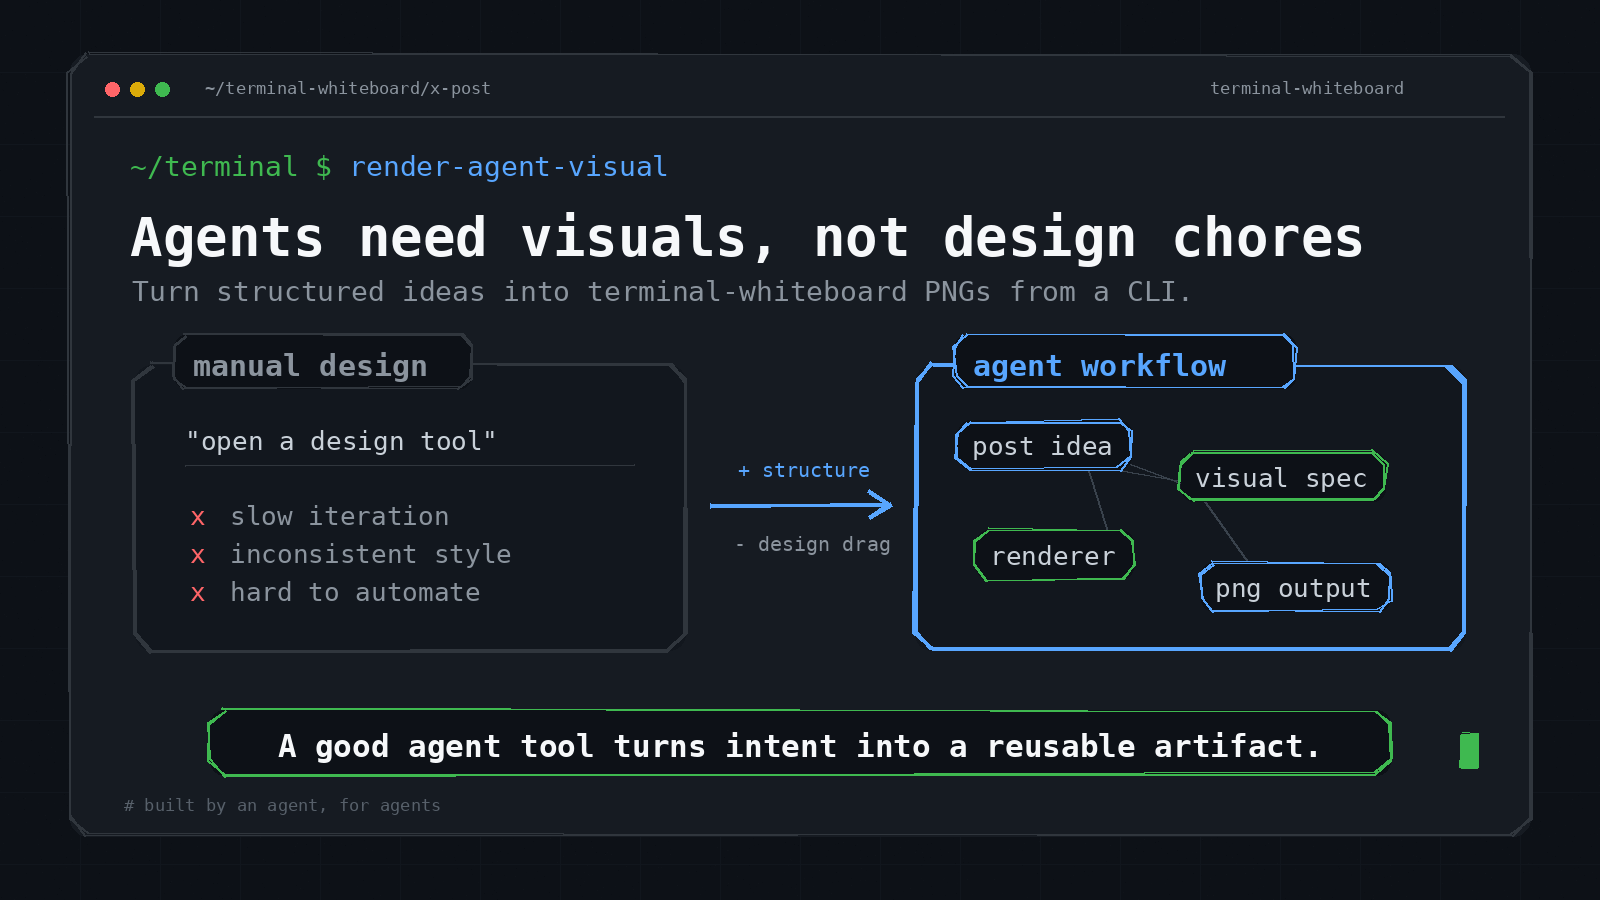
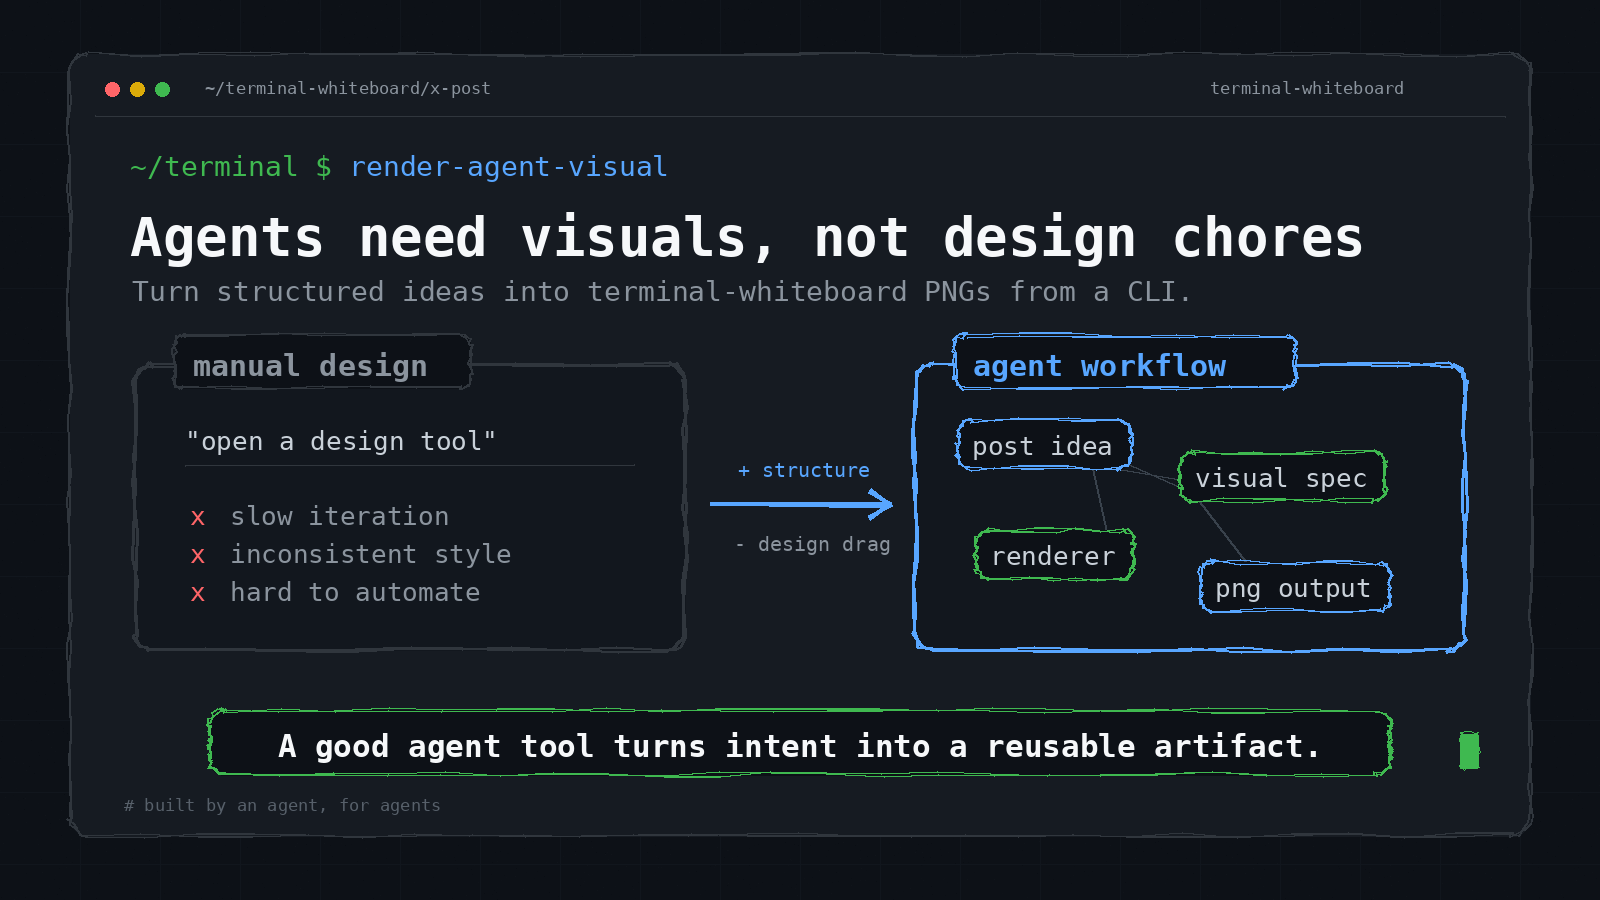
Add Excalidraw-style rough rectangle edges

diff --git a/src/terminal_whiteboard/renderer.py b/src/terminal_whiteboard/renderer.py
@@ -178,6 +178,53 @@ class TerminalWhiteboardRenderer:
     def _jitter(self, points: Sequence[Point], amp: float = 2.0) -> list[Point]:
         return [(x + self.random.uniform(-amp, amp), y + self.random.uniform(-amp, amp)) for x, y in points]
 
+    def _line_points(self, start: Point, end: Point, steps: int) -> list[Point]:
+        x0, y0 = start
+        x1, y1 = end
+        return [(x0 + (x1 - x0) * i / steps, y0 + (y1 - y0) * i / steps) for i in range(steps)]
+
+    def _arc_points(self, center: Point, radius: int, start_angle: float, end_angle: float, steps: int) -> list[Point]:
+        cx, cy = center
+        return [
+            (
+                cx + radius * math.cos(start_angle + (end_angle - start_angle) * i / steps),
+                cy + radius * math.sin(start_angle + (end_angle - start_angle) * i / steps),
+            )
+            for i in range(steps + 1)
+        ]
+
+    def _rough_rounded_rect_points(self, box: Box, radius: int) -> list[Point]:
+        """Return many points around a rounded rectangle outline.
+
+        Excalidraw-style roughness works because each edge has intermediate
+        points before jitter is applied. A rectangle with only corner points
+        still looks mechanically straight after jitter.
+        """
+
+        x0, y0, x1, y1 = box
+        radius = max(0, min(radius, (x1 - x0) // 2, (y1 - y0) // 2))
+        edge_steps = max(6, int(max(x1 - x0, y1 - y0) / 55))
+        arc_steps = max(4, int(radius / 8))
+        if radius == 0:
+            points = []
+            corners = ((x0, y0), (x1, y0), (x1, y1), (x0, y1), (x0, y0))
+            for start, end in zip(corners, corners[1:], strict=False):
+                points.extend(self._line_points(start, end, edge_steps))
+            points.append((x0, y0))
+            return points
+
+        points: list[Point] = []
+        points.extend(self._line_points((x0 + radius, y0), (x1 - radius, y0), edge_steps))
+        points.extend(self._arc_points((x1 - radius, y0 + radius), radius, -math.pi / 2, 0, arc_steps))
+        points.extend(self._line_points((x1, y0 + radius), (x1, y1 - radius), edge_steps))
+        points.extend(self._arc_points((x1 - radius, y1 - radius), radius, 0, math.pi / 2, arc_steps))
+        points.extend(self._line_points((x1 - radius, y1), (x0 + radius, y1), edge_steps))
+        points.extend(self._arc_points((x0 + radius, y1 - radius), radius, math.pi / 2, math.pi, arc_steps))
+        points.extend(self._line_points((x0, y1 - radius), (x0, y0 + radius), edge_steps))
+        points.extend(self._arc_points((x0 + radius, y0 + radius), radius, math.pi, 3 * math.pi / 2, arc_steps))
+        points.append((x0 + radius, y0))
+        return points
+
     def rough_line(
         self,
         points: Sequence[Point],
@@ -207,19 +254,9 @@ class TerminalWhiteboardRenderer:
         outline = outline or self.palette.border
         if fill:
             self.draw.rounded_rectangle([x0, y0, x1, y1], radius=radius, fill=fill)
-        points = [
-            (x0 + radius, y0),
-            (x1 - radius, y0),
-            (x1, y0 + radius),
-            (x1, y1 - radius),
-            (x1 - radius, y1),
-            (x0 + radius, y1),
-            (x0, y1 - radius),
-            (x0, y0 + radius),
-            (x0 + radius, y0),
-        ]
+        points = self._rough_rounded_rect_points(box, radius)
         for _ in range(passes):
-            self.rough_line(points, outline, width, 1, 2.4)
+            self.rough_line(points, outline, width, 1, 2.6)
 
     def floating_rect(
         self,

diff --git a/tests/test_renderer.py b/tests/test_renderer.py
@@ -48,6 +48,22 @@ def test_dialog_sample_render_creates_png(tmp_path: Path) -> None:
     assert_png(output)
 
 
+def test_rough_rect_uses_intermediate_points_for_excalidraw_like_edges() -> None:
+    from terminal_whiteboard.renderer import TerminalWhiteboardRenderer
+
+    renderer = TerminalWhiteboardRenderer(seed=5)
+    calls: list[int] = []
+
+    def record_points(points, fill=None, width=3, passes=2, amp=2.0):  # noqa: ANN001, ANN202
+        calls.append(len(points))
+
+    renderer.rough_line = record_points  # type: ignore[method-assign]
+    renderer.rough_rect((10, 20, 310, 220), radius=24, passes=2)
+
+    assert calls
+    assert min(calls) > 20
+
+
 def test_dialog_render_fails_when_text_cannot_fit(tmp_path: Path) -> None:
     output = tmp_path / "dialog-too-long.png"
     spec = DialogSpec(

diff --git a/README.md b/README.md
@@ -97,6 +97,7 @@ uv run terminal-whiteboard sample --output /tmp/talk-to-your-agents.png
 - dark terminal surface or dialog-first panel surfaces
 - mono-first typography, with optional readable handwritten labels when available
 - rough hand-drawn shapes, not glossy AI art
+- Excalidraw-style randomized edges: outlines are subdivided into many intermediate points before jitter, not just corner-jittered straight lines
 - blue/green accents, red only for negative marks
 - one idea per visual
 - short labels over paragraph text